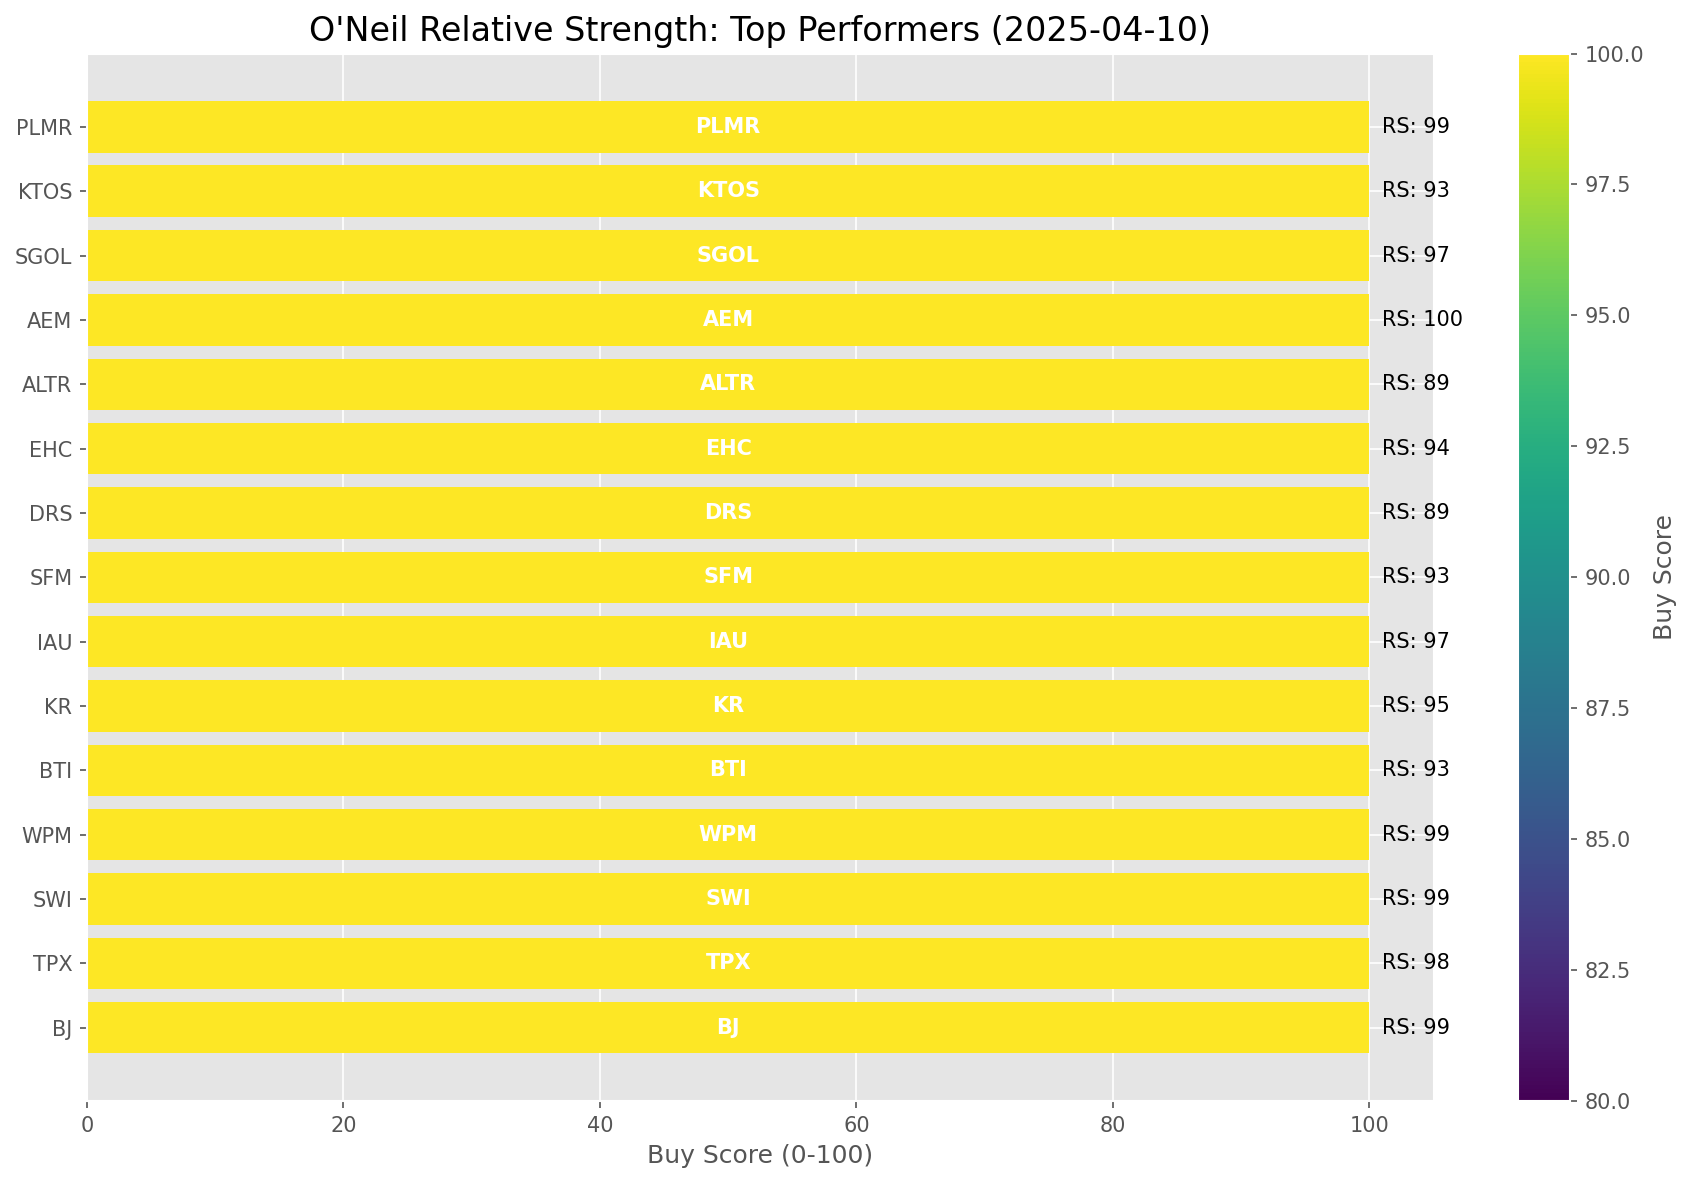
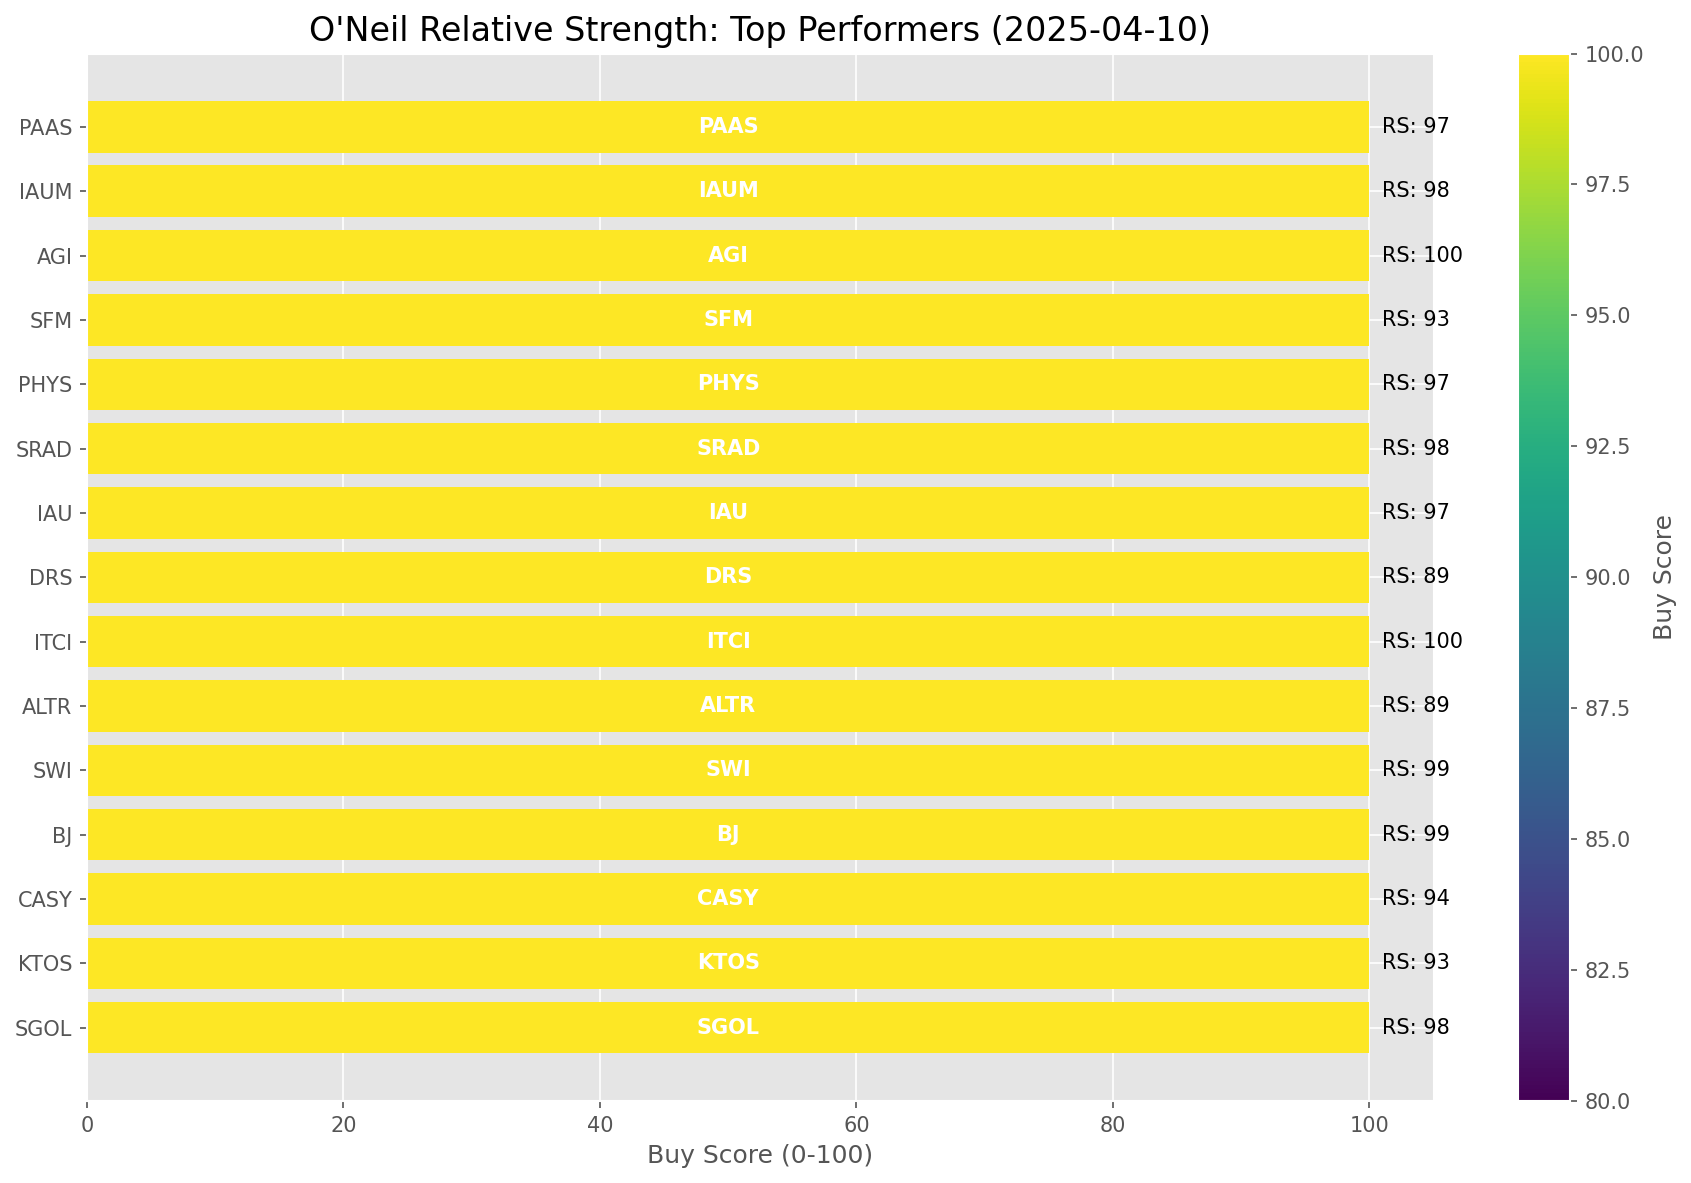
Add market report for 2025-04-10

diff --git a/oneil_relative_strength_report_2025-04-10.md b/oneil_relative_strength_report_2025-04-10.md
@@ -56,12 +56,12 @@ Based on William O'Neil's Relative Strength Methodology
 | [XLF](https://www.tradingview.com/chart/?symbol=XLF) | 53.5 | 67.0 | -5.01% | 10d ✗, 50d ✗, 200d ✗ | ↗ | Financial |
 | [XLI](https://www.tradingview.com/chart/?symbol=XLI) | 51.5 | 63.0 | -6.66% | 10d ✗, 50d ✗, 200d ✗ | ↗ | Industrial |
 | [XLC](https://www.tradingview.com/chart/?symbol=XLC) | 50.0 | 60.0 | -7.50% | 10d ✗, 50d ✗, 200d ✗ | ↗ | Communications |
-| [XLY](https://www.tradingview.com/chart/?symbol=XLY) | 39.5 | 39.0 | -15.50% | 10d ✗, 50d ✗, 200d ✗ | ↗ | Consumer Discretionary |
-| [XLK](https://www.tradingview.com/chart/?symbol=XLK) | 38.0 | 36.0 | -16.92% | 10d ✗, 50d ✗, 200d ✗ | ↗ | Technology |
+| [XLY](https://www.tradingview.com/chart/?symbol=XLY) | 39.0 | 38.0 | -15.50% | 10d ✗, 50d ✗, 200d ✗ | ↗ | Consumer Discretionary |
+| [XLK](https://www.tradingview.com/chart/?symbol=XLK) | 37.5 | 35.0 | -16.92% | 10d ✗, 50d ✗, 200d ✗ | ↗ | Technology |
 | [XLV](https://www.tradingview.com/chart/?symbol=XLV) | 35.5 | 71.0 | -3.45% | 10d ✗, 50d ✗, 200d ✗ | ↘ | Healthcare |
 | [XLB](https://www.tradingview.com/chart/?symbol=XLB) | 31.5 | 63.0 | -6.59% | 10d ✗, 50d ✗, 200d ✗ | ↘ | Materials |
 | [XLE](https://www.tradingview.com/chart/?symbol=XLE) | 23.5 | 47.0 | -12.46% | 10d ✗, 50d ✗, 200d ✗ | ↘ | Energy |
-| [IBB](https://www.tradingview.com/chart/?symbol=IBB) | 18.5 | 37.0 | -16.48% | 10d ✗, 50d ✗, 200d ✗ | ↘ | Biotechnology |
+| [IBB](https://www.tradingview.com/chart/?symbol=IBB) | 18.0 | 36.0 | -16.48% | 10d ✗, 50d ✗, 200d ✗ | ↘ | Biotechnology |
 
 ### **Sector ETF Performance Interpretation**
 
@@ -88,39 +88,39 @@ The following 44 stocks show exceptional relative strength:
 
 | RS Rating | Buy Score | Current Price | Chart | Name | Ticker |
 |-----------|-----------|---------------|-------|------|--------|
-| 100 | 100 | $111.55 | [Chart](https://www.tradingview.com/chart/?symbol=AEM) | Agnico Eagle Mines Ltd. | AEM |
 | 100 | 100 | $27.97 | [Chart](https://www.tradingview.com/chart/?symbol=AGI) | Alamos Gold Inc. Class A Common Shares | AGI |
+| 100 | 100 | $111.55 | [Chart](https://www.tradingview.com/chart/?symbol=AEM) | Agnico Eagle Mines Ltd. | AEM |
 | 100 | 100 | $131.04 | [Chart](https://www.tradingview.com/chart/?symbol=UGL) | ProShares Ultra Gold | UGL |
+| 100 | 100 | $77.90 | [Chart](https://www.tradingview.com/chart/?symbol=WPM) | Wheaton Precious Metals Corp. Common Stock | WPM |
 | 99 | 100 | $117.30 | [Chart](https://www.tradingview.com/chart/?symbol=BJ) | BJs Wholesale Club Holdings, Inc. Common Stock | BJ |
 | 99 | 100 | $18.49 | [Chart](https://www.tradingview.com/chart/?symbol=SWI) | SolarWinds Corporation Common Stock | SWI |
-| 99 | 100 | $77.90 | [Chart](https://www.tradingview.com/chart/?symbol=WPM) | Wheaton Precious Metals Corp. Common Stock | WPM |
-| 99 | 100 | $142.99 | [Chart](https://www.tradingview.com/chart/?symbol=PLMR) | Palomar Holdings, Inc. Common stock | PLMR |
-| 99 | 100 | $58.23 | [Chart](https://www.tradingview.com/chart/?symbol=GDXJ) | VanEck Junior Gold Miners ETF | GDXJ |
 | 99 | 100 | $15.49 | [Chart](https://www.tradingview.com/chart/?symbol=EZPW) | Ezcorp Inc | EZPW |
+| 99 | 100 | $47.17 | [Chart](https://www.tradingview.com/chart/?symbol=GDX) | VanEck Gold Miners ETF | GDX |
+| 99 | 100 | $58.23 | [Chart](https://www.tradingview.com/chart/?symbol=GDXJ) | VanEck Junior Gold Miners ETF | GDXJ |
 | 99 | 100 | $170.97 | [Chart](https://www.tradingview.com/chart/?symbol=RGLD) | Royal Gold Inc | RGLD |
+| 98 | 100 | $30.26 | [Chart](https://www.tradingview.com/chart/?symbol=SGOL) | abrdn Physical Gold Shares ETF | SGOL |
 | 98 | 100 | $22.02 | [Chart](https://www.tradingview.com/chart/?symbol=SRAD) | Sportradar Group AG Class A Ordinary Shares | SRAD |
+| 98 | 100 | $31.63 | [Chart](https://www.tradingview.com/chart/?symbol=IAUM) | iShares Gold Trust Micro | IAUM |
+| 98 | 100 | $62.80 | [Chart](https://www.tradingview.com/chart/?symbol=GLDM) | SPDR Gold MiniShares | GLDM |
 | 97 | 100 | $59.81 | [Chart](https://www.tradingview.com/chart/?symbol=IAU) | iShares Gold Trust | IAU |
-| 97 | 100 | $30.26 | [Chart](https://www.tradingview.com/chart/?symbol=SGOL) | abrdn Physical Gold Shares ETF | SGOL |
 | 97 | 100 | $24.32 | [Chart](https://www.tradingview.com/chart/?symbol=PHYS) | Sprott Physical Gold Trust | PHYS |
-| 97 | 100 | $240.23 | [Chart](https://www.tradingview.com/chart/?symbol=RSG) | Republic Services Inc. | RSG |
-| 97 | 100 | $292.35 | [Chart](https://www.tradingview.com/chart/?symbol=GLD) | SPDR Gold Trust, SPDR Gold Shares | GLD |
-| 97 | 100 | $31.26 | [Chart](https://www.tradingview.com/chart/?symbol=BAR) | GraniteShares Gold Shares | BAR |
-| 97 | 100 | $31.63 | [Chart](https://www.tradingview.com/chart/?symbol=IAUM) | iShares Gold Trust Micro | IAUM |
-| 97 | 100 | $21.81 | [Chart](https://www.tradingview.com/chart/?symbol=OR) | Osisko Gold Royalties Ltd | OR |
-| 97 | 100 | $30.55 | [Chart](https://www.tradingview.com/chart/?symbol=OUNZ) | VanEck Merk Gold ETF | OUNZ |
-| 97 | 100 | $62.80 | [Chart](https://www.tradingview.com/chart/?symbol=GLDM) | SPDR Gold MiniShares | GLDM |
+| 97 | 100 | $24.84 | [Chart](https://www.tradingview.com/chart/?symbol=PAAS) | Pan American Silver Corp. | PAAS |
 | 97 | 100 | $31.32 | [Chart](https://www.tradingview.com/chart/?symbol=AAAU) | Goldman Sachs Physical Gold ETF Shares | AAAU |
-| 96 | 100 | $37.48 | [Chart](https://www.tradingview.com/chart/?symbol=MRX) | Marex Group plc Ordinary Shares | MRX |
-| 95 | 100 | $67.90 | [Chart](https://www.tradingview.com/chart/?symbol=KR) | The Kroger Co. | KR |
-| 95 | 100 | $52.15 | [Chart](https://www.tradingview.com/chart/?symbol=SKWD) | Skyward Specialty Insurance Group, Inc. Common Stock | SKWD |
+| 97 | 100 | $31.26 | [Chart](https://www.tradingview.com/chart/?symbol=BAR) | GraniteShares Gold Shares | BAR |
+| 97 | 100 | $30.55 | [Chart](https://www.tradingview.com/chart/?symbol=OUNZ) | VanEck Merk Gold ETF | OUNZ |
+| 97 | 100 | $292.35 | [Chart](https://www.tradingview.com/chart/?symbol=GLD) | SPDR Gold Trust, SPDR Gold Shares | GLD |
+| 97 | 100 | $21.81 | [Chart](https://www.tradingview.com/chart/?symbol=OR) | Osisko Gold Royalties Ltd | OR |
+| 97 | 100 | $240.23 | [Chart](https://www.tradingview.com/chart/?symbol=RSG) | Republic Services Inc. | RSG |
+| 96 | 100 | $67.90 | [Chart](https://www.tradingview.com/chart/?symbol=KR) | The Kroger Co. | KR |
 | 95 | 100 | $27.97 | [Chart](https://www.tradingview.com/chart/?symbol=CEF) | Sprott Physical Gold and Silver Trust | CEF |
-| 94 | 100 | $102.13 | [Chart](https://www.tradingview.com/chart/?symbol=EHC) | Encompass Health Corporation Common Stock | EHC |
-| 94 | 100 | $273.18 | [Chart](https://www.tradingview.com/chart/?symbol=PGR) | Progressive Corporation | PGR |
+| 95 | 100 | $52.15 | [Chart](https://www.tradingview.com/chart/?symbol=SKWD) | Skyward Specialty Insurance Group, Inc. Common Stock | SKWD |
+| 95 | 100 | $273.18 | [Chart](https://www.tradingview.com/chart/?symbol=PGR) | Progressive Corporation | PGR |
 | 94 | 100 | $438.01 | [Chart](https://www.tradingview.com/chart/?symbol=CASY) | Casey's General Stores Inc | CASY |
-| 93 | 100 | $40.55 | [Chart](https://www.tradingview.com/chart/?symbol=BTI) | British American Tobacco p.l.c. American Depositary Shares, American Depositary Shares, each representing one Ordinary Share | BTI |
-| 93 | 100 | $153.92 | [Chart](https://www.tradingview.com/chart/?symbol=SFM) | Sprouts Farmers Market, Inc. | SFM |
+| 94 | 100 | $102.13 | [Chart](https://www.tradingview.com/chart/?symbol=EHC) | Encompass Health Corporation Common Stock | EHC |
 | 93 | 100 | $31.71 | [Chart](https://www.tradingview.com/chart/?symbol=KTOS) | Kratos Defense & Security Solutions, Inc. | KTOS |
+| 93 | 100 | $153.92 | [Chart](https://www.tradingview.com/chart/?symbol=SFM) | Sprouts Farmers Market, Inc. | SFM |
 | 93 | 100 | $102.78 | [Chart](https://www.tradingview.com/chart/?symbol=ATGE) | Adtalem Global Education Inc. Common Shares | ATGE |
+| 93 | 100 | $40.55 | [Chart](https://www.tradingview.com/chart/?symbol=BTI) | British American Tobacco p.l.c. American Depositary Shares, American Depositary Shares, each representing one Ordinary Share | BTI |
 | 92 | 100 | $113.25 | [Chart](https://www.tradingview.com/chart/?symbol=OLLI) | Ollie's Bargain Outlet Holdings, Inc. Common Stock | OLLI |
 | 92 | 100 | $47.50 | [Chart](https://www.tradingview.com/chart/?symbol=GFL) | GFL Environmental Inc. Subordinate Voting Shares | GFL |
 | 91 | 100 | $114.00 | [Chart](https://www.tradingview.com/chart/?symbol=CWST) | Casella Waste Systems Inc | CWST |
@@ -138,41 +138,35 @@ The following 44 stocks show exceptional relative strength:
 
 ## **Sell Recommendations**
 
-The following 35 stocks show deteriorating relative strength:
+The following 29 stocks show deteriorating relative strength:
 
 | RS Rating | Sell Score | Current Price | Chart | Name | Ticker |
 |-----------|------------|---------------|-------|------|--------|
 | 1 | 100 | $65.92 | [Chart](https://www.tradingview.com/chart/?symbol=PI) | Impinj, Inc. Common Stock | PI |
 | 5 | 100 | $11.58 | [Chart](https://www.tradingview.com/chart/?symbol=GCT) | GigaCloud Technology Inc Class A Ordinary Shares | GCT |
-| 7 | 100 | $10.10 | [Chart](https://www.tradingview.com/chart/?symbol=CGEM) | Cullinan Therapeutics, Inc. Common Stock | CGEM |
 | 11 | 100 | $42.57 | [Chart](https://www.tradingview.com/chart/?symbol=EDU) | New Oriental Education and Technology Group, Inc. American Depositary Shares (each representing ten (10) Common Shares) | EDU |
-| 13 | 100 | $27.24 | [Chart](https://www.tradingview.com/chart/?symbol=SRDX) | Surmodics, Inc. Common Stock | SRDX |
 | 12 | 98 | $49.56 | [Chart](https://www.tradingview.com/chart/?symbol=ENPH) | Enphase Energy, Inc. | ENPH |
-| 15 | 94 | $11.78 | [Chart](https://www.tradingview.com/chart/?symbol=AEYE) | AudioEye, Inc. Common Stock | AEYE |
 | 8 | 93 | $11.74 | [Chart](https://www.tradingview.com/chart/?symbol=MARA) | MARA Holdings, Inc. Common Stock | MARA |
+| 24 | 92 | $13.22 | [Chart](https://www.tradingview.com/chart/?symbol=FXN) | First Trust Energy AlphaDEX Fund | FXN |
 | 14 | 91 | $19.42 | [Chart](https://www.tradingview.com/chart/?symbol=HZO) | MarineMax, Inc. | HZO |
-| 25 | 91 | $13.22 | [Chart](https://www.tradingview.com/chart/?symbol=FXN) | First Trust Energy AlphaDEX Fund | FXN |
 | 26 | 91 | $10.03 | [Chart](https://www.tradingview.com/chart/?symbol=MTAL) | MAC Copper Limited | MTAL |
 | 17 | 90 | $26.70 | [Chart](https://www.tradingview.com/chart/?symbol=TAN) | Invesco Solar ETF | TAN |
-| 17 | 89 | $10.24 | [Chart](https://www.tradingview.com/chart/?symbol=EXPI) | eXp World Holdings, Inc. Common Stock | EXPI |
+| 21 | 90 | $52.29 | [Chart](https://www.tradingview.com/chart/?symbol=CNMD) | CONMED Corporation | CNMD |
 | 16 | 88 | $10.77 | [Chart](https://www.tradingview.com/chart/?symbol=SONO) | Sonos, Inc. Common Stock | SONO |
-| 22 | 88 | $52.29 | [Chart](https://www.tradingview.com/chart/?symbol=CNMD) | CONMED Corporation | CNMD |
 | 14 | 87 | $48.50 | [Chart](https://www.tradingview.com/chart/?symbol=RHI) | Robert Half Inc. | RHI |
 | 23 | 86 | $10.49 | [Chart](https://www.tradingview.com/chart/?symbol=PEB) | Pebblebrook Hotel Trust | PEB |
-| 20 | 84 | $10.26 | [Chart](https://www.tradingview.com/chart/?symbol=CMP) | Compass Minerals International, Inc. | CMP |
 | 21 | 84 | $10.15 | [Chart](https://www.tradingview.com/chart/?symbol=HLIT) | Harmonic Inc | HLIT |
-| 17 | 83 | $111.89 | [Chart](https://www.tradingview.com/chart/?symbol=MYRG) | MYR Group, Inc. | MYRG |
 | 22 | 83 | $11.34 | [Chart](https://www.tradingview.com/chart/?symbol=HPK) | HighPeak Energy, Inc. Common Stock | HPK |
-| 23 | 82 | $11.46 | [Chart](https://www.tradingview.com/chart/?symbol=RIVN) | Rivian Automotive, Inc. Class A Common Stock | RIVN |
+| 22 | 83 | $11.46 | [Chart](https://www.tradingview.com/chart/?symbol=RIVN) | Rivian Automotive, Inc. Class A Common Stock | RIVN |
 | 30 | 82 | $10.11 | [Chart](https://www.tradingview.com/chart/?symbol=CELC) | Celcuity Inc. Common Stock | CELC |
 | 29 | 81 | $13.14 | [Chart](https://www.tradingview.com/chart/?symbol=MED) | Medifast, Inc. | MED |
 | 26 | 79 | $10.04 | [Chart](https://www.tradingview.com/chart/?symbol=HTLD) | Heartland Express Inc | HTLD |
+| 22 | 78 | $351.45 | [Chart](https://www.tradingview.com/chart/?symbol=SAIA) | Saia, Inc. | SAIA |
 | 26 | 78 | $17.42 | [Chart](https://www.tradingview.com/chart/?symbol=IART) | Integra LifeSciences Holdings | IART |
+| 27 | 78 | $51.12 | [Chart](https://www.tradingview.com/chart/?symbol=HXL) | Hexcel Corporation | HXL |
 | 33 | 78 | $10.71 | [Chart](https://www.tradingview.com/chart/?symbol=DBRG) | DigitalBridge Group, Inc. | DBRG |
-| 23 | 77 | $351.45 | [Chart](https://www.tradingview.com/chart/?symbol=SAIA) | Saia, Inc. | SAIA |
-| 27 | 77 | $51.12 | [Chart](https://www.tradingview.com/chart/?symbol=HXL) | Hexcel Corporation | HXL |
 | 30 | 74 | $22.11 | [Chart](https://www.tradingview.com/chart/?symbol=AMRK) | A-Mark Precious Metals, Inc. | AMRK |
-| 39 | 73 | $10.30 | [Chart](https://www.tradingview.com/chart/?symbol=CSTM) | Constellium SE Class A Ordinary shares | CSTM |
+| 38 | 74 | $10.30 | [Chart](https://www.tradingview.com/chart/?symbol=CSTM) | Constellium SE Class A Ordinary shares | CSTM |
 | 36 | 71 | $10.90 | [Chart](https://www.tradingview.com/chart/?symbol=LBTYK) | Liberty Global Ltd. Class C Common Shares | LBTYK |
 | 36 | 69 | $10.34 | [Chart](https://www.tradingview.com/chart/?symbol=CMRE) | Costamare Inc. | CMRE |
 | 36 | 69 | $16.74 | [Chart](https://www.tradingview.com/chart/?symbol=CTRI) | Centuri Holdings, Inc. | CTRI |
